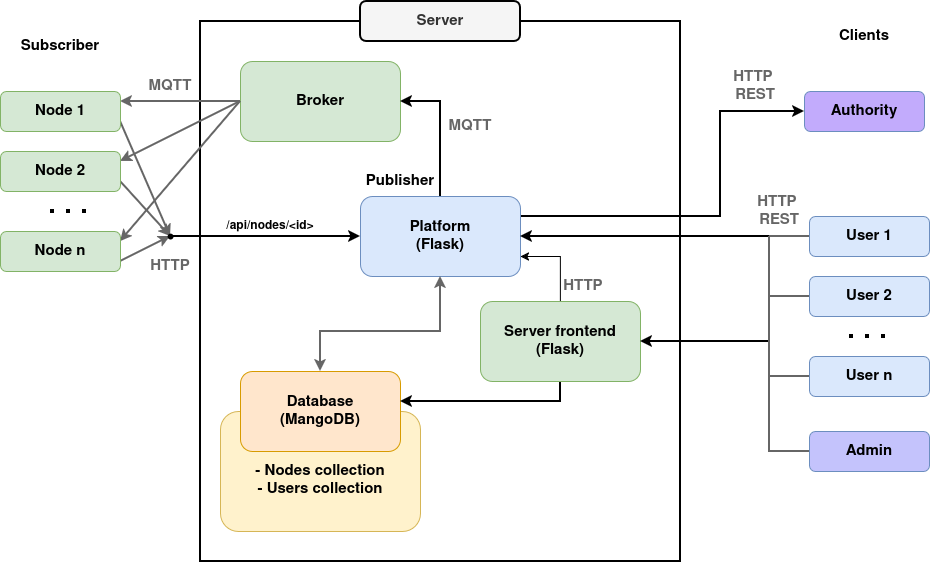
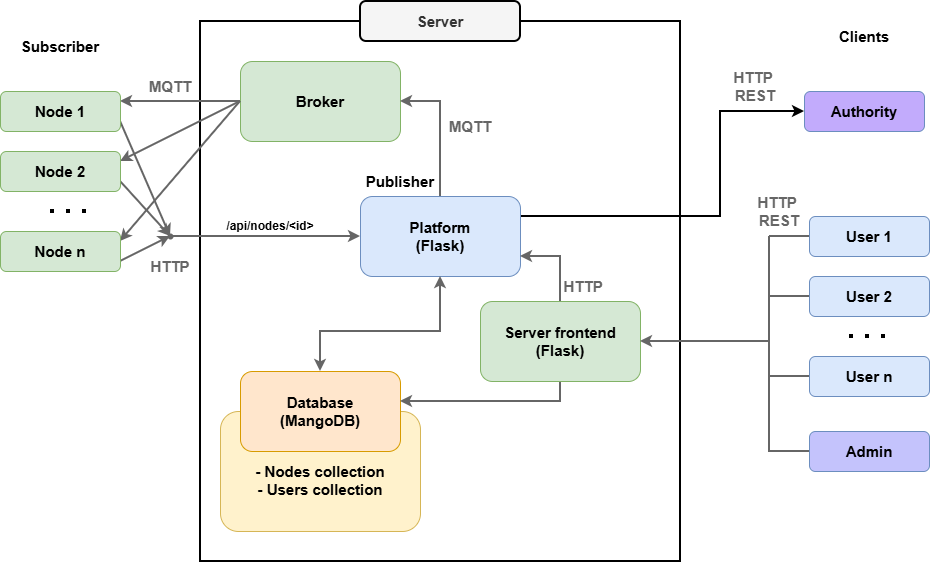
Document: Edited Design part of the report, new/corrected schematics

diff --git a/analysis_document/IoT_Smart_parking_for_disabled_people.tex b/analysis_document/IoT_Smart_parking_for_disabled_people.tex
@@ -17,7 +17,7 @@
 %See https://github.com/lasercata/LaTeX_Templates for the file latex_base.sty
 \input{style/latex_base.sty}
 
-% \input{data/data_template.sty}
+%\input{data/data_template.sty}
 \input{data/data.sty}
 
 \renewcommand{\arraystretch}{1.4}
@@ -1568,6 +1568,47 @@
 
     \begin{indt}{\section{Design}} %{{{1
         \begin{indt}{\subsection{Selected Hardware and Technologies}} %{{{2
+
+        Our IoT solution is defined by the following architecture. We use both a publish/subscribe protocol (MQTT) and the HTTP protocol to enable communication between the node and the platform. Specifically, we use MQTT so that the node can subscribe to its status topic and be updated when a reservation is made. We use HTTP to verify a user ID and to notify the platform when the parking spot state changes (violation, reserved, free, occupied, etc.). \newline
+
+        We also use HTTP for communication between users and the platform, allowing the admin to create, delete, and edit user accounts, and allowing users to reserve a parking spot and view available parking spaces. Additionally, HTTP is used by the platform to notify the authorities when a violation is detected.
+        
+        \begin{indt}{\subsection{Architecture}} %{{{2
+            \begin{figure}[H]
+                \centering
+            
+                \includegraphics[width=.9\textwidth]{pics/archi.png}
+            
+                \caption{General architecture -- data flow view}
+                \label{fig:}
+            \end{figure}
+            
+            The architecture can also be analyzed through the VO-based IoT framework, as shown in the following figure, which identifies the four layers and the cross-cutting security and privacy layer.
+            
+            \begin{figure}[H]
+                \centering
+            
+                \includegraphics[width=.9\textwidth]{pics/archi_view_2.png}
+            
+                \caption{General architecture -- IoT layers view}
+                \label{fig:}
+            \end{figure}
+        \end{indt} %}}}2
+
+        \begin{indt}{\subsection{Node Automaton}} %{{{2
+            The hardware node operates according to a finite state machine (FSM) designed to ensure deterministic behavior and reliable parking space management. The automaton governs the transitions between the different operational states of the node, such as free, reserved, occupied, unauthorized and violation. State transitions are triggered by events including vehicle detection, RFID authentication, reservation updates received via MQTT, and time-based conditions. \newline
+            
+            Figure~\ref{fig:node_fsm} illustrates the complete state machine implemented on the node.
+        
+            \begin{figure}[H]
+                \centering
+                \includegraphics[width=.9\textwidth]{pics/FSM.png}
+                \caption{Finite State Machine (FSM) of the hardware node}
+                \label{fig:node_fsm}
+            \end{figure}
+
+            The following table summarizes the main hardware components and software technologies used to implement the node and the associated platform.
+ 
             \begin{table}[H]% {{{3
                 \centering
             
@@ -1615,41 +1656,29 @@
                 \caption{Selected hardware and technologies}
                 \label{tab:selected}
             \end{table}% }}}3
-        \end{indt} %}}}2
 
-        \begin{indt}{\subsection{Architecture}} %{{{2
-            \begin{figure}[H]
-                \centering
-            
-                \includegraphics[width=.9\textwidth]{pics/archi.png}
-            
-                \caption{General architecture -- data flow view}
-                \label{fig:}
-            \end{figure}
+             Finally, Figure~\ref{fig:IoT_node_schematic} presents the wiring diagram of the node, detailing the interconnections between the microcontroller, sensors, RFID module and LED. This schematic reflects the current prototype implementation.
 
             \begin{figure}[H]
                 \centering
             
-                \includegraphics[width=.9\textwidth]{pics/archi_view_2.png}
+                \includegraphics[width=.9\textwidth]{pics/IoT_node_schematic.png}
             
-                \caption{General architecture -- IoT layers view}
+                \caption{Node wiring diagram}
                 \label{fig:}
             \end{figure}
+            
         \end{indt} %}}}2
 
-        \begin{indt}{\subsection{Node Automaton}} %{{{2
-            \begin{figure}[H]
-                \centering
-            
-                \includegraphics[width=.9\textwidth]{pics/FSM.png}
-            
-                \caption{State machine (automaton) of the hardware node}
-                \label{fig:}
-            \end{figure}
+        \begin{indt}{\subsection{Mockup of the user interface}} %{{{2
+            %todo
         \end{indt} %}}}2
-
+        
         \begin{indt}{\subsection{Flow charts}} %{{{2
-            \begin{indt}{\subsubsection{FR1}} %{{{3
+
+            For each functional requirement (FR), a dedicated flowgraph was designed to formally describe the associated behavior and processing logic.
+        
+            \begin{indt}{\subsubsection{FR1 -- Occupancy detection}} %{{{3
                 \begin{figure}[H]
                     \centering
                 
@@ -1660,7 +1689,7 @@
                 \end{figure}
             \end{indt} %}}}3
 
-            \begin{indt}{\subsubsection{FR2}} %{{{3
+            \begin{indt}{\subsubsection{FR2 -- Authorization verification}} %{{{3
                 \begin{figure}[H]
                     \centering
                 
@@ -1671,7 +1700,7 @@
                 \end{figure}
             \end{indt} %}}}3
 
-            \begin{indt}{\subsubsection{FR3}} %{{{3
+            \begin{indt}{\subsubsection{FR3 --Authorization cloning detection}} %{{{3
                 \begin{figure}[H]
                     \centering
                 
@@ -1682,7 +1711,7 @@
                 \end{figure}
             \end{indt} %}}}3
 
-            \begin{indt}{\subsubsection{FR4}} %{{{3
+            \begin{indt}{\subsubsection{FR4 -- Violation identification}} %{{{3
                 \begin{figure}[H]
                     \centering
                 
@@ -1693,7 +1722,7 @@
                 \end{figure}
             \end{indt} %}}}3
 
-            \begin{indt}{\subsubsection{FR5}} %{{{3
+            \begin{indt}{\subsubsection{FR5 -- Authority notification}} %{{{3
                 \begin{figure}[H]
                     \centering
                 
@@ -1704,7 +1733,7 @@
                 \end{figure}
             \end{indt} %}}}3
 
-            \begin{indt}{\subsubsection{FR6}} %{{{3
+            \begin{indt}{\subsubsection{FR6 -- Parking availability visualization}} %{{{3
                 \begin{figure}[H]
                     \centering
                 
@@ -1715,7 +1744,7 @@
                 \end{figure}
             \end{indt} %}}}3
 
-            \begin{indt}{\subsubsection{FR7}} %{{{3
+            \begin{indt}{\subsubsection{FR7 -- Parking reservation}} %{{{3
                 \begin{figure}[H]
                     \centering
                 
@@ -1726,7 +1755,7 @@
                 \end{figure}
             \end{indt} %}}}3
 
-            \begin{indt}{\subsubsection{FR8}} %{{{3
+            \begin{indt}{\subsubsection{FR8 -- Reservation timeout management}} %{{{3
                 \begin{figure}[H]
                     \centering
                 
@@ -1737,7 +1766,7 @@
                 \end{figure}
             \end{indt} %}}}3
 
-            \begin{indt}{\subsubsection{FR9}} %{{{3
+            \begin{indt}{\subsubsection{FR9 -- Parking occupancy status}} %{{{3
                 \begin{figure}[H]
                     \centering
                 
@@ -1748,7 +1777,7 @@
                 \end{figure}
             \end{indt} %}}}3
 
-            \begin{indt}{\subsubsection{FR10}} %{{{3
+            \begin{indt}{\subsubsection{FR10 -- User registration}} %{{{3
                 \begin{figure}[H]
                     \centering
                 
@@ -1759,7 +1788,42 @@
                 \end{figure}
             \end{indt} %}}}3
         \end{indt} %}}}2
+        \end{indt} %}}}2
     \end{indt} %}}}1
+
+\begin{indt}{\section{Digital Twin VS. Real object}} %{{{2
+    %TODO
+\end{indt}
+
+\begin{indt}{\section{Ways of Improvement}} %{{{1
+
+    \begin{indt}{\subsection{Improved Authentication Mechanism for the Node}}
+        Currently, the system uses a token-based authentication approach with tokens hardcoded directly into the node firmware. This method presents security risks, as compromised firmware exposes valid credentials. A more secure solution would involve dynamic token provisioning, certificate-based authentication.
+    \end{indt}
+
+    \begin{indt}{\subsection{Automated Deployment of New Nodes}}
+        At present, nodes are deployed manually, requiring firmware flashing, token generation, ID assignment, and database registration. This process could be automated through a provisioning script or pipeline capable of:
+        \begin{itemize}
+            \item Flashing the correct firmware,
+            \item Generating unique secure credentials,
+            \item Registering the node automatically in the database,
+            \item Associating it with its geographic location.
+        \end{itemize}
+    \end{indt}
+
+    \begin{indt}{\subsection{Design of a Dedicated PCB}}
+        The current prototype relies on development boards and external wiring. A dedicated PCB integrating all required sensors and communication modules would improve reliability, reduce power consumption, minimize wiring issues, and make the system more suitable for large-scale deployment.
+    \end{indt}
+
+    \begin{indt}{\subsection{Power Management Optimization}}
+        The system could be improved by implementing advanced power management strategies, such as deep-sleep modes, event-driven wake-up mechanisms. This would make the solution more energy-efficient for outdoor deployments.
+    \end{indt}
+
+    \begin{indt}{\subsection{Use of a Magnetometer Instead of an Ultrasonic Sensor}}
+        The current system relies on an ultrasonic sensor, which may detect objects other than vehicles and can be affected by environmental conditions. A magnetometer would provide more reliable vehicle detection by sensing disturbances in the Earth's magnetic field caused by large metallic objects, reducing false positives and improving accuracy.
+    \end{indt}
+
+\end{indt}
 
     \begin{indt}{\section{Conclusion}} %{{{1
         This IoT-based smart parking system addresses a real societal need by improving accessibility for people with disabilities while providing authorities with efficient tools to prevent abuse.
